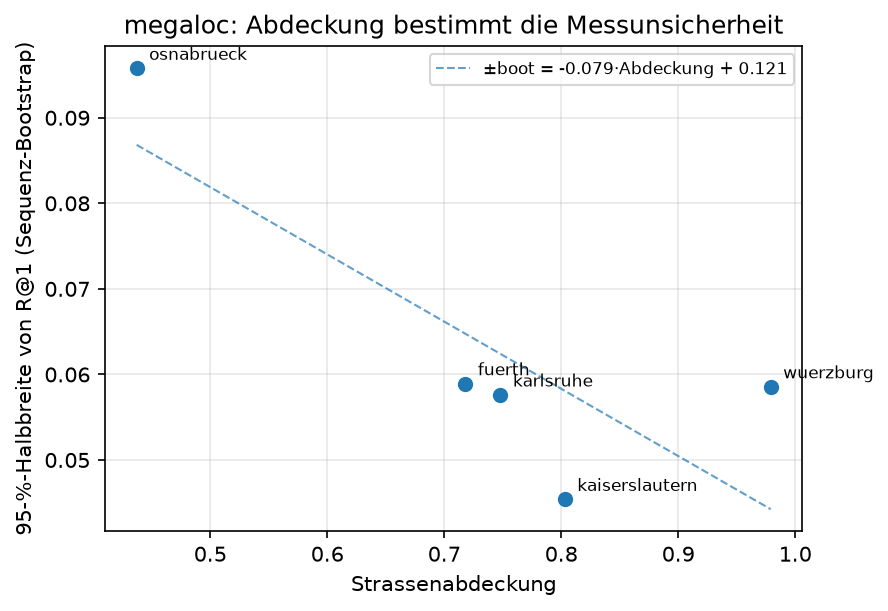
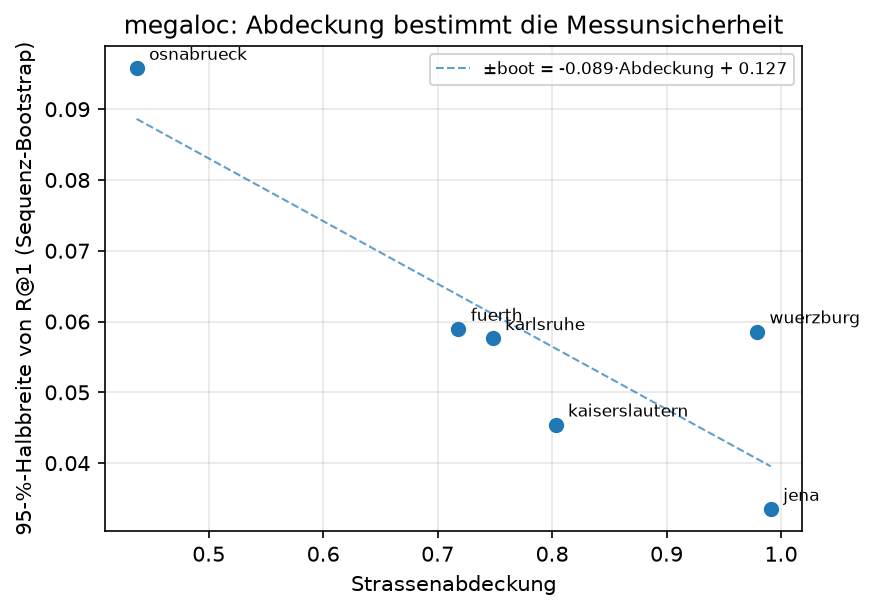
all cities without osnabrück

diff --git a/experiments/city_comparison.py b/experiments/city_comparison.py
@@ -118,7 +118,11 @@ def _stadt(slug, method, schwelle):
         # genau das trennt den Abschlag vom Dublettenanteil.
         d["loesbar_hard"] = hard["schwellen"][schwelle]["loesbar"]
     pano = a.get("Nur Nicht-Panorama-Queries")
-    d["ohne_panorama"] = _recall(pano, schwelle) if pano else None
+    if pano:
+        d["ohne_panorama"] = _recall(pano, schwelle)
+        # Mit dieser Zahl laesst sich R@1 der Panorama-Anfragen exakt
+        # zurueckrechnen -- 07 wertet sie nicht eigens aus.
+        d["loesbar_ohne_panorama"] = pano["schwellen"][schwelle]["loesbar"]
 
     voll = ev / f"{method}_fullref.json"
     if voll.exists():
@@ -220,7 +224,18 @@ def zerlegung(zeile):
     erwartet = zeile["n_korrekt"] * (1 - zeile["dublette"]) / zeile["loesbar_hard"]
     return {"r": r, "erwartet": erwartet, "gemessen": zeile["hard"],
             "rest": zeile["hard"] - erwartet,
-            "erwarteter_abschlag": erwartet - zeile["alle"]}
+            "erwarteter_abschlag": erwartet - zeile["alle"],
+            # Zwei Masse, die dasselbe Wort "Dublette" tragen und doch
+            # verschiedene Dinge zaehlen:
+            #   d     Anteil der korrekten TREFFER, die Dubletten sind
+            #   1-r   Anteil der loesbaren ANFRAGEN, deren einzige Referenz
+            #         eine Dublette war -- die strukturelle Abhaengigkeit
+            # Ihre Differenz ist der Abschlag: rel = -(d - (1-r)) / r.
+            # Sie verschwindet, wenn das System Dubletten nur in dem Mass
+            # nutzt, in dem der Datensatz sie erzwingt.
+            "strukturell": 1 - r,
+            "uebernutzung": zeile["dublette"] - (1 - r),
+            "rel_abschlag": (zeile["hard"] - zeile["alle"]) / zeile["alle"]}
 
 
 def _zerlegungstabelle(zeilen):
@@ -237,12 +252,14 @@ def _zerlegungstabelle(zeilen):
         print("\nHard-Abschlag zerlegt: keine Stadt mit Herkunftsmessung "
               "(experiments/recall_by_difficulty.py).")
         return {}
-    print("\nHard-Abschlag zerlegt   R@1_hard = n_korrekt x (1 - Dubl) / loesbar_hard")
-    print(f"{'Stadt':<16}{'Dubl':>7}{'r':>7}{'erwartet':>10}{'gemessen':>10}{'Rest':>8}")
-    print("-" * 58)
+    print("\nHard-Abschlag zerlegt   rel. Abschlag = -(d - (1-r)) / r")
+    print("  d   = Anteil der korrekten Treffer, die Dubletten sind")
+    print("  1-r = Anteil der loesbaren Anfragen, die NUR durch Dubletten loesbar waren")
+    print(f"{'Stadt':<16}{'d':>7}{'1-r':>7}{'d-(1-r)':>10}{'rel.Absch':>11}{'Rest':>8}")
+    print("-" * 59)
     for z, x in mit:
-        print(f"{z['stadt']:<16}{z['dublette']:>7.1%}{x['r']:>7.3f}"
-              f"{x['erwartet']:>10.3f}{x['gemessen']:>10.3f}{x['rest']:>+8.3f}")
+        print(f"{z['stadt']:<16}{z['dublette']:>7.1%}{x['strukturell']:>7.1%}"
+              f"{x['uebernutzung']:>+10.3f}{x['rel_abschlag']:>+11.3f}{x['rest']:>+8.3f}")
     groesster = max(abs(x["rest"]) for _, x in mit)
     if groesster > 0.002:
         print(f"  ACHTUNG: groesster Rest {groesster:+.4f}. Die Identitaet gilt "
@@ -250,6 +267,56 @@ def _zerlegungstabelle(zeilen):
               f"min_days_apart und dieselbe Trefferliste benutzt haben.")
     else:
         print(f"  Groesster Rest {groesster:.4f} -- die Zerlegung traegt.")
+    return {z["stadt"]: x for z, x in mit}
+
+
+def panorama(zeile):
+    """
+    R@1 der Panorama-Anfragen -- exakt, obwohl 07 sie nicht eigens auswertet.
+
+    07 rechnet "Alle Queries" und "Nur Nicht-Panorama-Queries". Die Differenz
+    der Trefferzahlen ist die Trefferzahl AUF den Panoramen, die Differenz der
+    loesbaren Anfragen ihre Zahl:
+
+        R@1_pano = (R_alle * L - R_ohne * L_ohne) / (L - L_ohne)
+
+    Das ist der direkte Wert, nicht die bisher berichtete Hochrechnung
+    "Differenz geteilt durch Panoramaanteil" -- und er sagt dasselbe, nur
+    ohne Umweg.
+    """
+    noetig = ("alle", "loesbar_n", "ohne_panorama", "loesbar_ohne_panorama")
+    if any(zeile.get(k) is None for k in noetig):
+        return None
+    n = zeile["loesbar_n"] - zeile["loesbar_ohne_panorama"]
+    if n < 1:
+        return None
+    treffer = (zeile["alle"] * zeile["loesbar_n"]
+               - zeile["ohne_panorama"] * zeile["loesbar_ohne_panorama"])
+    r = treffer / n
+    return {"n_pano": n, "recall_pano": r, "recall_ohne": zeile["ohne_panorama"],
+            "strafe": zeile["ohne_panorama"] - r,
+            # Binomialer Standardfehler, optimistisch (Sequenzen sind korreliert),
+            # aber er zeigt schon, wann n zu klein ist, um etwas zu behaupten.
+            "se_binomial": (r * (1 - r) / n) ** 0.5}
+
+
+def _panoramatabelle(zeilen):
+    mit = [(z, panorama(z)) for z in zeilen]
+    mit = [(z, x) for z, x in mit if x]
+    if not mit:
+        print("\nPanorama-Anfragen: keine Stadt mit getrennter Auswertung.")
+        return {}
+    print("\nPanorama-Anfragen   R@1 getrennt, exakt aus beiden Auswertungen von 07")
+    print(f"{'Stadt':<16}{'n':>8}{'R@1 Pano':>10}{'R@1 ohne':>10}{'Strafe':>9}{'+-SE':>8}")
+    print("-" * 61)
+    for z, x in sorted(mit, key=lambda t: -t[1]["n_pano"]):
+        print(f"{z['stadt']:<16}{x['n_pano']:>8,}{x['recall_pano']:>10.3f}"
+              f"{x['recall_ohne']:>10.3f}{x['strafe']:>9.3f}{x['se_binomial']:>8.3f}")
+    gross = [x for _, x in mit if x["n_pano"] >= 1000]
+    if len(gross) >= 2:
+        sp = [x["strafe"] for x in gross]
+        print(f"  Ueber die {len(gross)} Staedte mit mindestens 1.000 Panorama-Anfragen: "
+              f"Strafe {min(sp):.3f} bis {max(sp):.3f}")
     return {z["stadt"]: x for z, x in mit}
 
 
@@ -321,6 +388,18 @@ def main():
         "auch der Nenner schrumpft, und kann deshalb selbst dann flach sein, wenn die "
         "Identitaet auf drei Stellen aufgeht.")
     zerlegt = _zerlegungstabelle(zeilen)
+    for z in zeilen:
+        x = zerlegt.get(z["stadt"])
+        if x:
+            z["uebernutzung"] = x["uebernutzung"]
+            z["rel_abschlag"] = x["rel_abschlag"]
+    befunde["uebernutzung_abschlag"] = _zusammenhang(
+        "Uebernutzung d-(1-r) gegen relativen Hard-Abschlag", zeilen,
+        "uebernutzung", "rel_abschlag",
+        "Die starke Fassung: nicht der Dublettenanteil allein, sondern sein Ueberschuss "
+        "ueber die strukturelle Abhaengigkeit. Analytisch erzwungen (rel = -(d-(1-r))/r), "
+        "die Rangkorrelation prueft nur, ob beide Skripte dasselbe messen.")
+    panoramen = _panoramatabelle(zeilen)
     befunde["jahre_hard"] = _zusammenhang(
         "Anteil seit 2022 gegen Hard-Abschlag", zeilen, "seit_2022", "hard_abschlag",
         "Wenige alte Kampagnen -> Anfrage und Treffer aus derselben Befahrung -> der Filter greift hart.")
@@ -332,7 +411,8 @@ def main():
     OUT.parent.mkdir(parents=True, exist_ok=True)
     OUT.write_text(json.dumps({"method": args.method, "schwelle_m": float(schwelle),
                                "staedte": zeilen, "befunde": befunde,
-                               "zerlegung": zerlegt}, indent=2))
+                               "zerlegung": zerlegt,
+                               "panorama": panoramen}, indent=2))
     print(f"\ngeschrieben: {OUT.relative_to(ROOT)}")
 
     if args.plot:
